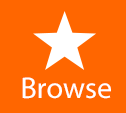
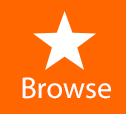
- Correct the Tabbar.

diff --git a/Controllers/Main Controller/TMEViewController.m b/Controllers/Main Controller/TMEViewController.m
@@ -39,38 +39,7 @@
     
     self.viewControllers = @[browserVC, dummy1, publishVC, loginVC, dummy2];
     
-    UITabBar *tabBar = self.tabBar;
-    
-    // browser button
-    UITabBarItem *browserBtn = [tabBar.items objectAtIndex:0];
-    browserVC.view.frame = CGRectMake(browserVC.view.frame.origin.x, browserVC.view.frame.origin.y + 1, browserVC.view.frame.size.width, browserVC.view.frame.size.height);
-    browserBtn.title = @"";
-    UIImage *browserBtnBackground = [UIImage imageNamed:@"tabbar-browser-icon"];
-    [browserBtn setFinishedSelectedImage:browserBtnBackground withFinishedUnselectedImage:browserBtnBackground];
-    
-    // search dummy button
-    UITabBarItem *dummy1Btn = [tabBar.items objectAtIndex:1];
-    dummy1Btn.title = @"";
-    UIImage *dummy1BtnBtnBackground = [UIImage imageNamed:@"tabbar-search-icon"];
-    [dummy1Btn setFinishedSelectedImage:dummy1BtnBtnBackground withFinishedUnselectedImage:dummy1BtnBtnBackground];
-    
-    // publish button
-    UITabBarItem *publishBtn = [tabBar.items objectAtIndex:2];
-    publishBtn.title = @"";
-    UIImage *publish1BtnBackground = [UIImage imageNamed:@"tabbar-sell-icon"];
-    [publishBtn setFinishedSelectedImage:publish1BtnBackground withFinishedUnselectedImage:publish1BtnBackground];
-    
-    // login button
-    UITabBarItem *loginBtn = [tabBar.items objectAtIndex:3];
-    loginBtn.title = @"";
-    UIImage *loginBtnBackground = [UIImage imageNamed:@"tabbar-activity-icon"];
-    [loginBtn setFinishedSelectedImage:loginBtnBackground withFinishedUnselectedImage:loginBtnBackground];
-    
-    // me button
-    UITabBarItem *dummy2Btn = [tabBar.items objectAtIndex:4];
-    dummy2Btn.title = @"";
-    UIImage *dummy2BtnBackground = [UIImage imageNamed:@"tabbar-me-icon"];
-    [dummy2Btn setFinishedSelectedImage:dummy2BtnBackground withFinishedUnselectedImage:dummy2BtnBackground];
+    [self stypeTheTabbarButtons];
 }
 
 #pragma mark - Link to product config
@@ -87,6 +56,46 @@
 - (IBAction)onBtnShowFBPage:(id)sender {
     TMELoginViewController *loginVC = [[TMELoginViewController alloc] init];
     [self.navigationController pushViewController:loginVC animated:YES];
+}
+
+
+#pragma marks - UI helper
+- (void)stypeTheTabbarButtons{
+    UITabBar *tabBar = self.tabBar;
+    // browser button
+    UITabBarItem *browserBtn = [tabBar.items objectAtIndex:0];
+    browserBtn.imageInsets = UIEdgeInsetsMake(3, 0, -2, 0);
+    browserBtn.title = @"";
+    UIImage *browserBtnBackground = [UIImage imageNamed:@"tabbar-browser-icon"];
+    [browserBtn setFinishedSelectedImage:browserBtnBackground withFinishedUnselectedImage:browserBtnBackground];
+    
+    // search dummy button
+    UITabBarItem *dummy1Btn = [tabBar.items objectAtIndex:1];
+    dummy1Btn.imageInsets = UIEdgeInsetsMake(3, 0, -2, 0);
+    dummy1Btn.title = @"";
+    UIImage *dummy1BtnBtnBackground = [UIImage imageNamed:@"tabbar-search-icon"];
+    [dummy1Btn setFinishedSelectedImage:dummy1BtnBtnBackground withFinishedUnselectedImage:dummy1BtnBtnBackground];
+    
+    // publish button
+    UITabBarItem *publishBtn = [tabBar.items objectAtIndex:2];
+    publishBtn.imageInsets = UIEdgeInsetsMake(3, 0, -2, 0);
+    publishBtn.title = @"";
+    UIImage *publish1BtnBackground = [UIImage imageNamed:@"tabbar-sell-icon"];
+    [publishBtn setFinishedSelectedImage:publish1BtnBackground withFinishedUnselectedImage:publish1BtnBackground];
+    
+    // login button
+    UITabBarItem *loginBtn = [tabBar.items objectAtIndex:3];
+    loginBtn.imageInsets = UIEdgeInsetsMake(3, 0, -2, 0);
+    loginBtn.title = @"";
+    UIImage *loginBtnBackground = [UIImage imageNamed:@"tabbar-activity-icon"];
+    [loginBtn setFinishedSelectedImage:loginBtnBackground withFinishedUnselectedImage:loginBtnBackground];
+    
+    // me button
+    UITabBarItem *dummy2Btn = [tabBar.items objectAtIndex:4];
+    dummy2Btn.imageInsets = UIEdgeInsetsMake(3, 0, -2, 0);
+    dummy2Btn.title = @"";
+    UIImage *dummy2BtnBackground = [UIImage imageNamed:@"tabbar-me-icon"];
+    [dummy2Btn setFinishedSelectedImage:dummy2BtnBackground withFinishedUnselectedImage:dummy2BtnBackground];
 }
 
 @end

diff --git a/Controllers/Superclass/TMEBaseTabBarViewController.m b/Controllers/Superclass/TMEBaseTabBarViewController.m
@@ -28,13 +28,8 @@
     // Nav left button
     UIButton *leftButton = [UIButton buttonWithType:UIButtonTypeCustom];
     
-    if (self == [[self.navigationController viewControllers] objectAtIndex:0]) {
-        [leftButton setImage:[UIImage imageNamed:@"category-list-icon"] forState:UIControlStateNormal];
-        [leftButton addTarget:self.viewDeckController action:@selector(toggleLeftView) forControlEvents:UIControlEventTouchUpInside];
-    }else{
-        [leftButton setImage:[UIImage imageNamed:@"category-list-icon"] forState:UIControlStateNormal];
-        [leftButton addTarget:self action:@selector(onBtnBack) forControlEvents:UIControlEventTouchUpInside];
-    }
+    [leftButton setImage:[UIImage imageNamed:@"category-list-icon"] forState:UIControlStateNormal];
+    [leftButton addTarget:self.viewDeckController action:@selector(toggleLeftView) forControlEvents:UIControlEventTouchUpInside];
     
     leftButton.frame = CGRectMake(0, 0, 40, 30);
     UIBarButtonItem *leftButtonItem = [[UIBarButtonItem alloc] initWithCustomView:leftButton];

diff --git a/Controllers/Publish Products/TMEPublishProductViewController.m b/Controllers/Publish Products/TMEPublishProductViewController.m
@@ -31,7 +31,7 @@ TMEPhotoButtonDelegate
 {
     [super viewDidLoad];
     // Do any additional setup after loading the view from its nib.
-    self.title = @"Publish Product";
+//    self.title = @"Publish Product";
     for (TMEPhotoButton *button in self.view.subviews) {
         if ([button isKindOfClass:[TMEPhotoButton class]]) {
             [button addTarget:self action:@selector(photoSaved:) forControlEvents:UIControlEventValueChanged];            

diff --git a/Controllers/Browser Products/TMEBrowserProductsViewController.m b/Controllers/Browser Products/TMEBrowserProductsViewController.m
@@ -29,7 +29,7 @@
 - (void)viewDidLoad
 {
     [super viewDidLoad];
-    self.title = @"Browser Products";
+//    self.title = @"Browser Products";
     // Do any additional setup after loading the view from its nib.
     
     NSString *reuseCellsIndentifier = NSStringFromClass([TMEBrowserProductsTableCell class]);
